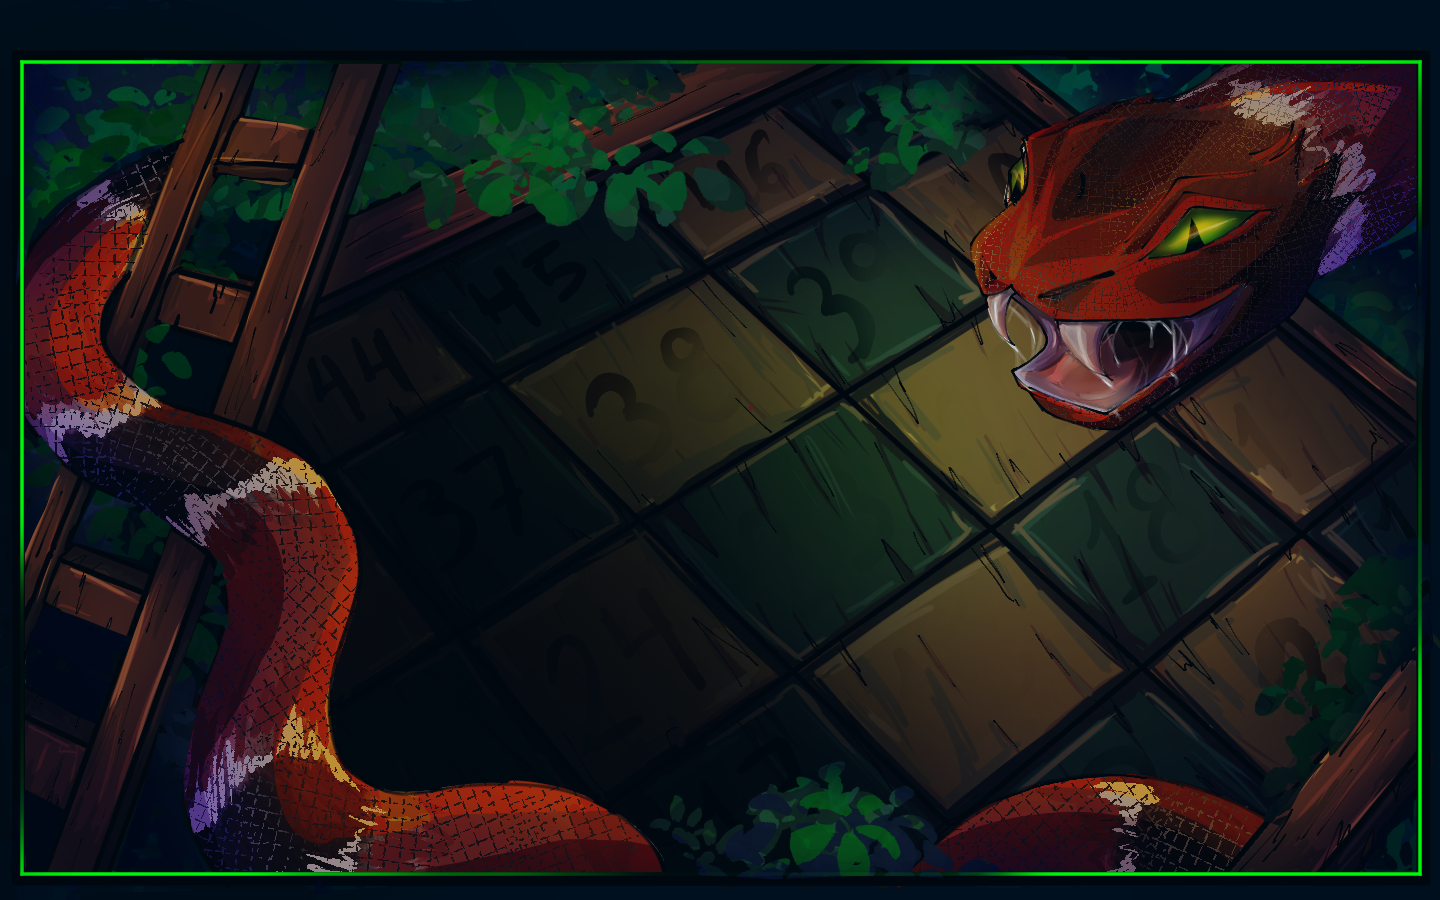
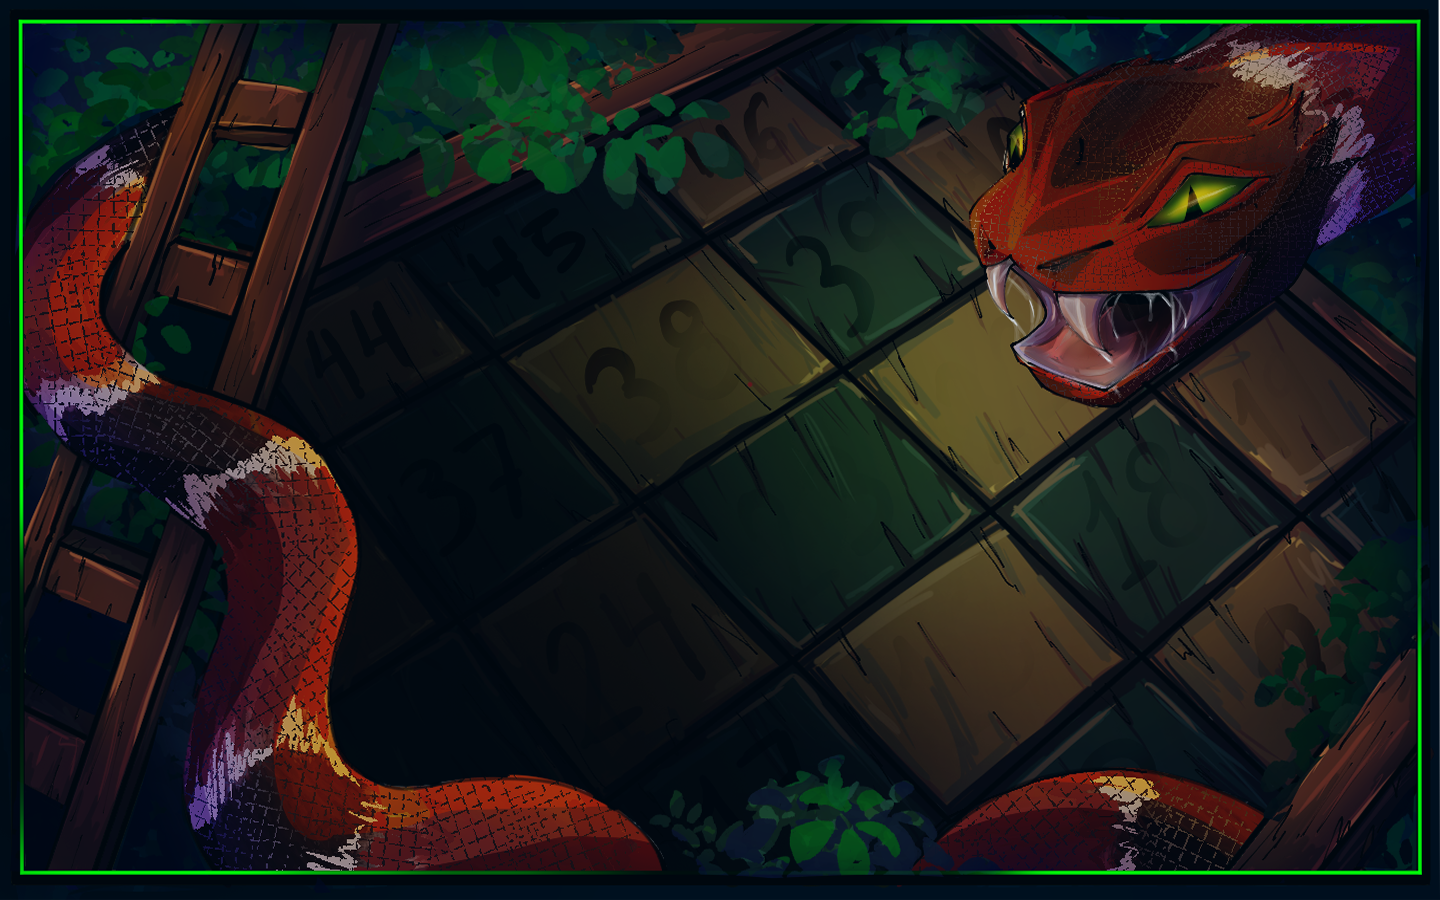
Add Estadisticas

diff --git a/Proyecto/src/windowView/PantallaInicio.java b/Proyecto/src/windowView/PantallaInicio.java
@@ -10,10 +10,11 @@ public class PantallaInicio extends Pantalla {
         super(1440, 900, "fondos/inicio.png");
         this.ventana = ventana;
 
-        BotonImagen botonJugar = this.agregar(this.crearBoton("JUGAR"), 572, 503, 378, 99);
-        BotonImagen botonAjustes = this.agregar(this.crearBoton("AJUSTES"), 572, 612, 378, 99);
-        BotonImagen botonSalir = this.agregar(this.crearBoton("SALIR"), 572, 721, 378, 99);
-        BotonRedondo botonInfo = this.agregar(new BotonRedondo(BotonRedondo.Tipo.INFO, "Reglas de juego"), 37, 820, 50, 50);
+        BotonImagen botonJugar = this.agregar(this.crearBoton("JUGAR"), 572, 410, 359,94);
+        BotonImagen botonAjustes = this.agregar(this.crearBoton("AJUSTES"), 572, 622,359,94);
+        BotonImagen botonSalir = this.agregar(this.crearBoton("SALIR"), 572, 731, 359,94);
+        BotonImagen botonEstadisticas = this.agregar(this.crearBoton("ESTADISTICAS"),572, 513, 359,94);
+        BotonRedondo botonInfo = this.agregar(new BotonRedondo(BotonRedondo.Tipo.INFO, "Reglas de juego"), 37, 810, 50, 50);
 
         botonJugar.setSeleccionado(true);
 
@@ -21,6 +22,7 @@ public class PantallaInicio extends Pantalla {
         botonAjustes.alHacerClic(evento -> this.ventana.abrirSuperposicion("ajustes"));
         botonSalir.alHacerClic(evento -> this.ventana.abrirSuperposicion("salir"));
         botonInfo.alHacerClic(evento -> this.ventana.abrirSuperposicion("reglas"));
+        botonEstadisticas.alHacerClic(evento -> this.ventana.mostrar("estadisticas"));
     }
 
     private BotonImagen crearBoton(String texto) {
@@ -29,7 +31,7 @@ public class PantallaInicio extends Pantalla {
 
     @Override
     protected void dibujar(Graphics2D g) {
-        g.drawImage(Recursos.imagen("fondos/titulo.png"), 268, 120, null);
+        g.drawImage(Recursos.imagen("fondos/titulo.png"), 258, 60, null);
     }
 }
 

diff --git a/Proyecto/src/windowView/VentanaGrafica.java b/Proyecto/src/windowView/VentanaGrafica.java
@@ -23,6 +23,7 @@ public class VentanaGrafica extends JFrame {
 
     private final PantallaTablero pantallaTablero;
     private final PantallaCarga pantallaCarga;
+    private final PantallaEstadisticas pantallaEstadisticas;
 
 
     private String pantallaActual = "inicio";
@@ -34,11 +35,14 @@ public class VentanaGrafica extends JFrame {
 
         this.pantallaTablero = new PantallaTablero(this);
         this.pantallaCarga = new PantallaCarga(this);
+        this.pantallaEstadisticas = new PantallaEstadisticas(this);
      
         
         this.panelPrincipal.add(new PantallaInicio(this), "inicio");
         this.panelPrincipal.add(this.pantallaCarga, "carga");
         this.panelPrincipal.add(this.pantallaTablero, "tablero");
+        this.panelPrincipal.add(this.pantallaEstadisticas, "estadisticas");
+
     
 
         this.ventanasEmergentes.put("modo", new PantallaModo(this));

diff --git a/Proyecto/src/windowView/PantallaModo.java b/Proyecto/src/windowView/PantallaModo.java
@@ -14,7 +14,7 @@ public class PantallaModo extends Pantalla {
         BotonImagen botonIndividual = this.agregar(this.crearBoton("INDIVIDUAL"), 250, 300, 500, 110);
         BotonImagen botonMultijugador = this.agregar(this.crearBoton("MULTIJUGADOR"), 250, 470, 500, 110);
         BotonImagen botonVolver = this.agregar(this.crearBoton("VOLVER"), 40, 790, 250, 70);
-        botonVolver.setSeleccionado(true);
+        botonIndividual.setSeleccionado(true);
 
         botonIndividual.alHacerClic(evento -> this.ventana.abrirSuperposicion("individual"));
         botonMultijugador.alHacerClic(evento -> this.ventana.abrirSuperposicion("jugadores"));

diff --git a/Proyecto/src/windowView/PantallaEstadisticas.java b/Proyecto/src/windowView/PantallaEstadisticas.java
@@ -1,0 +1,20 @@
+package windowView;
+
+public class PantallaEstadisticas extends Pantalla{
+    private final VentanaGrafica ventana;
+
+    protected PantallaEstadisticas(VentanaGrafica ventana) {
+
+        super(1440, 900, "fondos/estadisticas.png");
+        this.ventana = ventana;
+       
+        BotonImagen botonVolver = this.agregar(this.crearBoton("VOLVER"), 40, 790, 250, 70);
+        botonVolver.alHacerClic(evento -> this.ventana.mostrar("inicio"));
+    }
+
+     private BotonImagen crearBoton(String texto) {
+        return new BotonImagen(texto, "botones/normal.png", "botones/resaltado.png", 16);
+    }
+ 
+
+}

diff --git a/Proyecto/src/windowView/PantallaIndividual.java b/Proyecto/src/windowView/PantallaIndividual.java
@@ -25,7 +25,7 @@ public class PantallaIndividual extends Pantalla {
 
         BotonImagen botonVolver = this.agregar(this.crearBoton("VOLVER"), 40, 790, 250, 70);
         BotonImagen botonComenzar = this.agregar(this.crearBoton("COMENZAR"), 710, 790, 250, 70);
-        botonVolver.setSeleccionado(true);
+        botonComenzar.setSeleccionado(true);
         botonVolver.alHacerClic(evento -> this.ventana.abrirSuperposicion("modo"));
         botonComenzar.alHacerClic(evento -> this.comenzar());
     }

diff --git a/Proyecto/src/windowView/PantallaJugadores.java b/Proyecto/src/windowView/PantallaJugadores.java
@@ -34,7 +34,7 @@ public class PantallaJugadores extends Pantalla {
 
         BotonImagen botonVolver = this.agregar(this.crearBoton("VOLVER"), 40, 790, 250, 70);
         BotonImagen botonComenzar = this.agregar(this.crearBoton("COMENZAR"), 710, 790, 250, 70);
-        botonVolver.setSeleccionado(true);
+        botonComenzar.setSeleccionado(true);
         botonVolver.alHacerClic(evento -> this.ventana.abrirSuperposicion("modo"));
         botonComenzar.alHacerClic(evento -> this.comenzar());
     }
